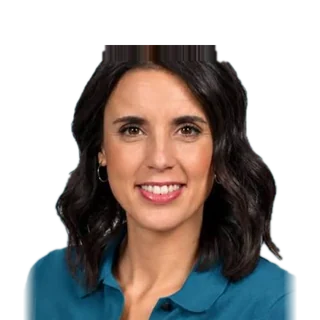
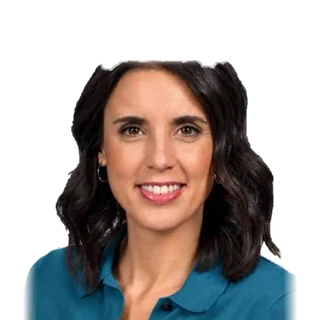
Spanyol oldal: újravágott jelöltfejek, jelöltnév felül
Claude-Session: https://claude.ai/code/session_01J8PjfkUCs1TyppvFaUMZMM

diff --git a/spanyol-valasztas.html b/spanyol-valasztas.html
@@ -281,6 +281,7 @@
 img.fej{background:transparent!important;object-fit:cover}
 .hc .ph{border-radius:50%;background:transparent}
 .pn .jn,.jn{display:flex!important;align-items:center;gap:6px;min-width:0}.jn>span{min-width:0;overflow-wrap:break-word}.jn img.jlg{margin-right:0;flex:none}
+.pn .cn{display:block;font-weight:700;line-height:1.2}.pn .jn{margin-top:3px}.jn img.jlg{height:17px;max-width:56px}
 </style>
 </head>
 <body>
@@ -422,7 +423,7 @@ const JEL={"PP":"Alberto Núñez Feijóo","PSOE":"Pedro Sánchez Pérez-Castejó
 const LOGO={"PP": "https://upload.wikimedia.org/wikipedia/commons/thumb/3/3c/Logo_del_PP_%282022%29.svg/250px-Logo_del_PP_%282022%29.svg.png", "PSOE": "https://upload.wikimedia.org/wikipedia/commons/thumb/9/9e/Logo_PSOE_41_Congreso.svg/250px-Logo_PSOE_41_Congreso.svg.png", "Vox": "https://upload.wikimedia.org/wikipedia/commons/thumb/a/aa/VOX_logo.svg/250px-VOX_logo.svg.png", "Frente Amplio": "https://upload.wikimedia.org/wikipedia/commons/thumb/2/29/Frente_AMPLIO.svg/250px-Frente_AMPLIO.svg.png", "Sumar": "https://upload.wikimedia.org/wikipedia/commons/thumb/8/8c/Movimiento_Sumar_logo_2025.svg/250px-Movimiento_Sumar_logo_2025.svg.png", "Podemos": "https://upload.wikimedia.org/wikipedia/commons/thumb/4/4e/Logo_de_Podemos_%282022%29.svg/250px-Logo_de_Podemos_%282022%29.svg.png", "SALF": "https://upload.wikimedia.org/wikipedia/commons/thumb/9/98/Se_acabo_la_fiesta_wordmark.png/250px-Se_acabo_la_fiesta_wordmark.png", "ERC": "https://upload.wikimedia.org/wikipedia/commons/thumb/9/9a/ERC_logo_2025.svg/250px-ERC_logo_2025.svg.png", "Junts": "https://upload.wikimedia.org/wikipedia/commons/thumb/9/92/Junts_per_Catalunya_%282020%29.svg/250px-Junts_per_Catalunya_%282020%29.svg.png", "EH Bildu": "https://upload.wikimedia.org/wikipedia/commons/thumb/d/d5/Logo_de_EH_Bildu_%282023%29.svg/250px-Logo_de_EH_Bildu_%282023%29.svg.png", "PNV": "https://upload.wikimedia.org/wikipedia/commons/thumb/3/31/Logo_PNV_2025.svg/250px-Logo_PNV_2025.svg.png", "BNG": "https://upload.wikimedia.org/wikipedia/commons/thumb/8/88/Bloque_Nacionalista_Galego.svg/250px-Bloque_Nacionalista_Galego.svg.png", "CC": "https://upload.wikimedia.org/wikipedia/commons/thumb/1/1c/Coalici%C3%B3n_Canaria.svg/250px-Coalici%C3%B3n_Canaria.svg.png", "UPN": "https://upload.wikimedia.org/wikipedia/commons/thumb/d/d0/Logo_UPN_2017.svg/250px-Logo_UPN_2017.svg.png"},FOTO={"PP": "assets/es/feijoo.webp", "PSOE": "assets/es/sanchez.webp", "Vox": "assets/es/abascal.webp", "Frente Amplio": "assets/es/colau.webp", "Sumar": "assets/es/colau.webp", "Podemos": "assets/es/montero.webp", "SALF": "assets/es/alvise.webp", "ERC": "assets/es/rufian.webp", "Junts": "assets/es/nogueras.webp", "EH Bildu": "assets/es/matute.webp", "PNV": "assets/es/vaquero.webp", "BNG": "assets/es/rego.webp", "CC": "assets/es/valido.webp"};
 const lgo=p=>LOGO[p]?'<img class="lgo'+(p==="ERC"||p==="SALF"?' lgd':'')+'" src="'+LOGO[p]+'" alt="'+esc(p)+'" loading="lazy">':'<i class="lgx" style="background:'+cl(p)+'"></i>';
 const lgs=p=>LOGO[p]?'<img class="jlg'+(p==="ERC"||p==="SALF"?' lgd':'')+'" src="'+LOGO[p]+'" alt="'+esc(p)+'" loading="lazy">':'';
-const pnm=p=>esc(p)+(JEL[p]?'<em class="jn">'+lgs(p)+'<span>'+esc(JEL[p])+'</span></em>':(LOGO[p]?'<em class="jn">'+lgs(p)+'</em>':''));
+const pnm=p=>'<b class="cn">'+esc(JEL[p]||p)+'</b>'+(LOGO[p]?'<em class="jn">'+lgs(p)+'</em>':(JEL[p]?'<em class="jn">'+esc(p)+'</em>':''));
 const mono=p=>{const j=JEL[p];if(!j||/^közös/.test(j))return esc(p.slice(0,3));const w=j.replace(/[„”"]/g,"").split(/\s+/).filter(x=>/^[A-ZÁÉÍÓÖŐÚÜŰÑ]/.test(x));return esc((w[0]||"")[0]+((w[1]||"")[0]||""));};
 const fej=p=>FOTO[p]?'<img class="fej" style="--c:'+cl(p)+'" src="'+FOTO[p]+'" alt="'+esc(JEL[p]||p)+'" loading="lazy">':'<i class="fej fe" aria-hidden="true"></i>';
 const pcell=p=>'<span class="pn">'+fej(p)+'<span>'+pnm(p)+'</span></span>';

diff --git a/sw.js b/sw.js
@@ -1,7 +1,7 @@
 /* Választások – offline gyorsítótár.
    Oldalak és élő adatok: mindig a hálózatról, gyorsítótár csak tartaléknak (offline).
    Statikus fájlok: azonnal a gyorsítótárból, közben a háttérben frissül. */
-const V="v61t",CORE="core-"+V,RT="rt-"+V;
+const V="v61u",CORE="core-"+V,RT="rt-"+V;
 const PRE=["./","index.html","eredmenyek","spanyol-valasztas","spanyol-szimulator","spanyol-valasztas.html","spanyol-szimulator.html","zold-foki-szigetek-valasztas","zold-foki-szigetek-valasztas.html","eredmenyek.html","magyarorszag.html","szimulator.html","orszag.html","spanyolorszag.html","nemetorszag.html","ausztria.html","szlovakia.html","romania.html","egyesult-allamok.html","valasztasi-rendszer.html","naptar.html","404.html",
   "assets/portal.css?v=16","assets/orszagok.js?v=11","assets/fastzoom.js?v=1","assets/anim.js?v=3","assets/terkep-anim.js?v=4","assets/app.js?v=9","assets/app/icon-192.png?v=3","manifest.webmanifest"];
 self.addEventListener("install",e=>{e.waitUntil(caches.open(CORE).then(c=>Promise.all(PRE.map(u=>c.add(u).catch(()=>{})))).then(()=>self.skipWaiting()));});
